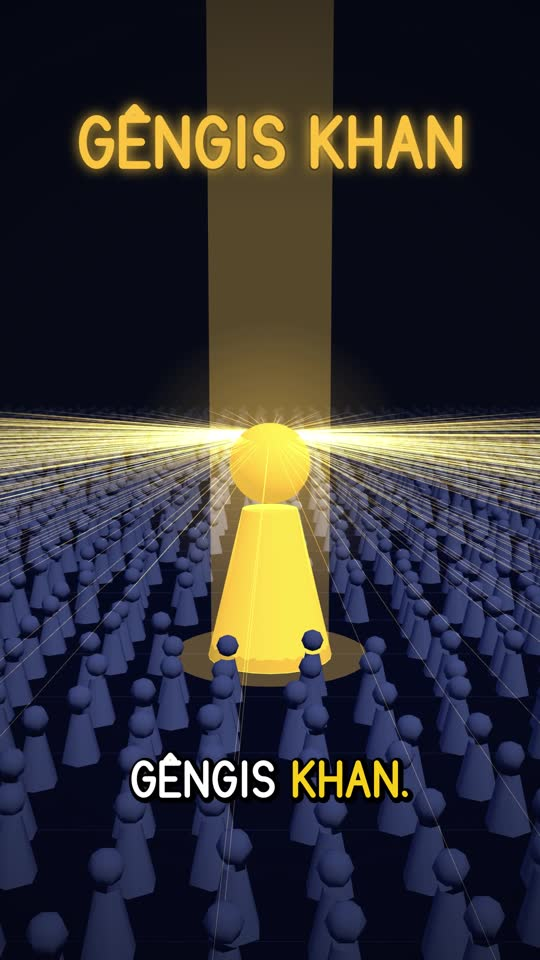
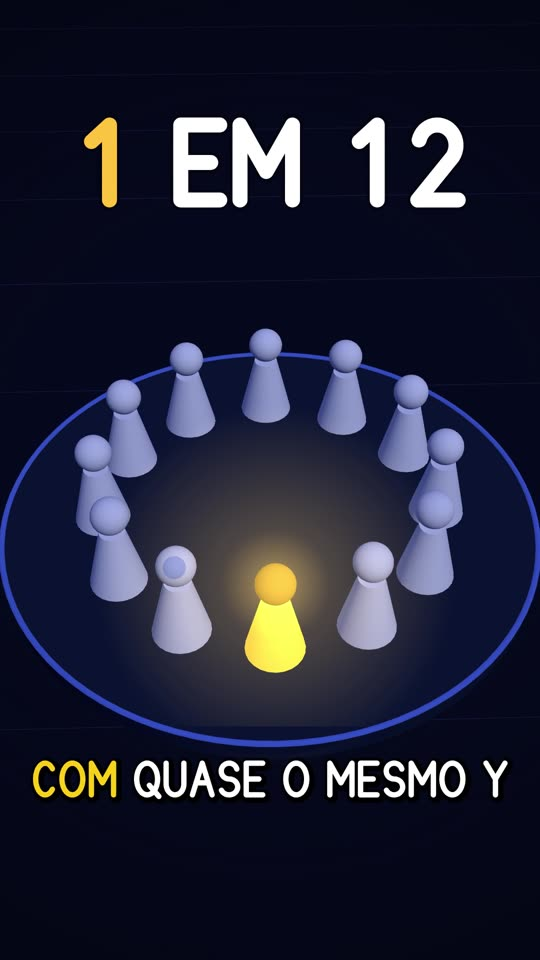
polimento: separar os dados das legendas e identificar os intervalos no papiro

diff --git a/exemplos/biblioteca/dados-3d/motor.js b/exemplos/biblioteca/dados-3d/motor.js
@@ -320,7 +320,7 @@ Filme.criar({
               const t0 = p.t + i * 0.12; if (t < t0) return;
               const m = bs[i], destaque = it.cor !== 'ardosia';
               const [nx, ny] = naFolha(m.position.x, 0, m.position.z + p.larg / 2);
-              c.globalAlpha = trecho(t, t0, t0 + 0.15); escreve(it.nome, nx, ny + 52, 32, { cor: destaque ? it.cor : 'cinzaClaro' });
+              c.globalAlpha = trecho(t, t0, t0 + 0.15); escreve(it.nome, nx, ny + 28, 39, { cor: 'branco' });
               const [vx, vy] = naFolha(m.position.x, alt(i, t) + 0.5, m.position.z);
               c.globalAlpha = trecho(t, t0 + p.dur * 0.6, t0 + p.dur); escreve(it.valor, vx, vy - 14, 46, { cor: destaque ? it.cor : 'branco', tabular: true, brilho: destaque ? 16 : 0, peso: 0.2 });
               c.globalAlpha = 1;

diff --git a/LESSONS.md b/LESSONS.md
@@ -2,6 +2,7 @@
 
 Lição nova vai no TOPO, em uma linha. (Mais recente primeiro.)
 
+- Contadores e pictogramas: confira o instante em que a legenda anuncia o resultado e um quadro após a animação assentar. Uma multidão decorativa atrás das doze figuras também entra na contagem visual. (20/11/2026)
 - Canvas 2D: `retRedondo`, `circulo` e cada forma que começa com `beginPath()` apagam o caminho anterior; uma função que junta várias delas (corpo + cabeça + copa, aba + abas das orelhas) e depois faz um só `fill()`/`stroke()` pinta só a ÚLTIMA (o gorro do Khan saiu sem a aba de pele, o contorno final só com o gorro). Guarde as formas numa lista e pinte uma por uma. (19/11/2026)
 - Troca de cena por máscara (mancha d'água que abre): pinte a cena nova INTEIRA (fundo + peças) numa tela à parte e corte com `destination-in` por uma mancha pintada uma vez ao montar (sem `blur` por quadro); assim as peças da cena que sai somem junto com o fundo dela. E carmim escuro (`#a3172b`) dentro de borda preta de legenda quase não se lê a 360x640: clareie só o destaque da legenda. (19/11/2026)
 - Rótulo largo que sai pela borda: meça a largura de cada rótulo da história AO MONTAR (largTexto × tam) e dê erro com o número se passar do limite; no absurdo pegou "OUTRA LINHAGEM" (500 px numa coluna de 480) antes de qualquer tira. Galho de árvore de medalhões sai da BORDA do medalhão (raio × 1,1), senão cruza o rosto do medalhão de baixo. (19/11/2026)

diff --git a/FALHAS.md b/FALHAS.md
@@ -1,8 +1,9 @@
-| 2026-11-20 | revisão das folhas rodou sem imagem (glob *.png, folhas são .jpg) e o Codex respondeu o modelo | conferir `wc -l` dos lotes antes de chamar o revisor | prompt |
 # Falhas — filme-em-codigo
 
 | data | o que quebrou | menor correção | prompt \| infra |
 |---|---|---|---|
+| 20/11/2026 | legenda dos 20 milhões antecipava o contador em 14 histórias e a multidão de fundo confundia a proporção no recorte-jornal | sincronizar o início da legenda e deixar só o grupo de doze no plano estatístico | prompt |
+| 2026-11-20 | revisão das folhas rodou sem imagem (glob *.png, folhas são .jpg) e o Codex respondeu o modelo | conferir `wc -l` dos lotes antes de chamar o revisor | prompt |
 | 19/11/2026 | vetor-ciencia: aba de pele do gorro do Khan e contorno final do corpo sumiram (várias formas com `beginPath` próprio pintadas por um só `fill`/`stroke`) | lista de formas, pintar uma por uma | prompt |
 | 19/11/2026 | marca-autoral: render completo parou com `IndexSizeError` (raio de `arc` -2e-15 vindo do salto back-ease em x=0) | `Math.max(0, …)` na função `pop` | prompt |
 | 19/11/2026 | anime-3d-cel: blocos de gelo do estouro surgiam do nada no fundo do plano anterior (visíveis 0,9 s antes do estouro, mesmo mundo 3D) | campo `aparece` na história = começo do plano do estouro | prompt |
